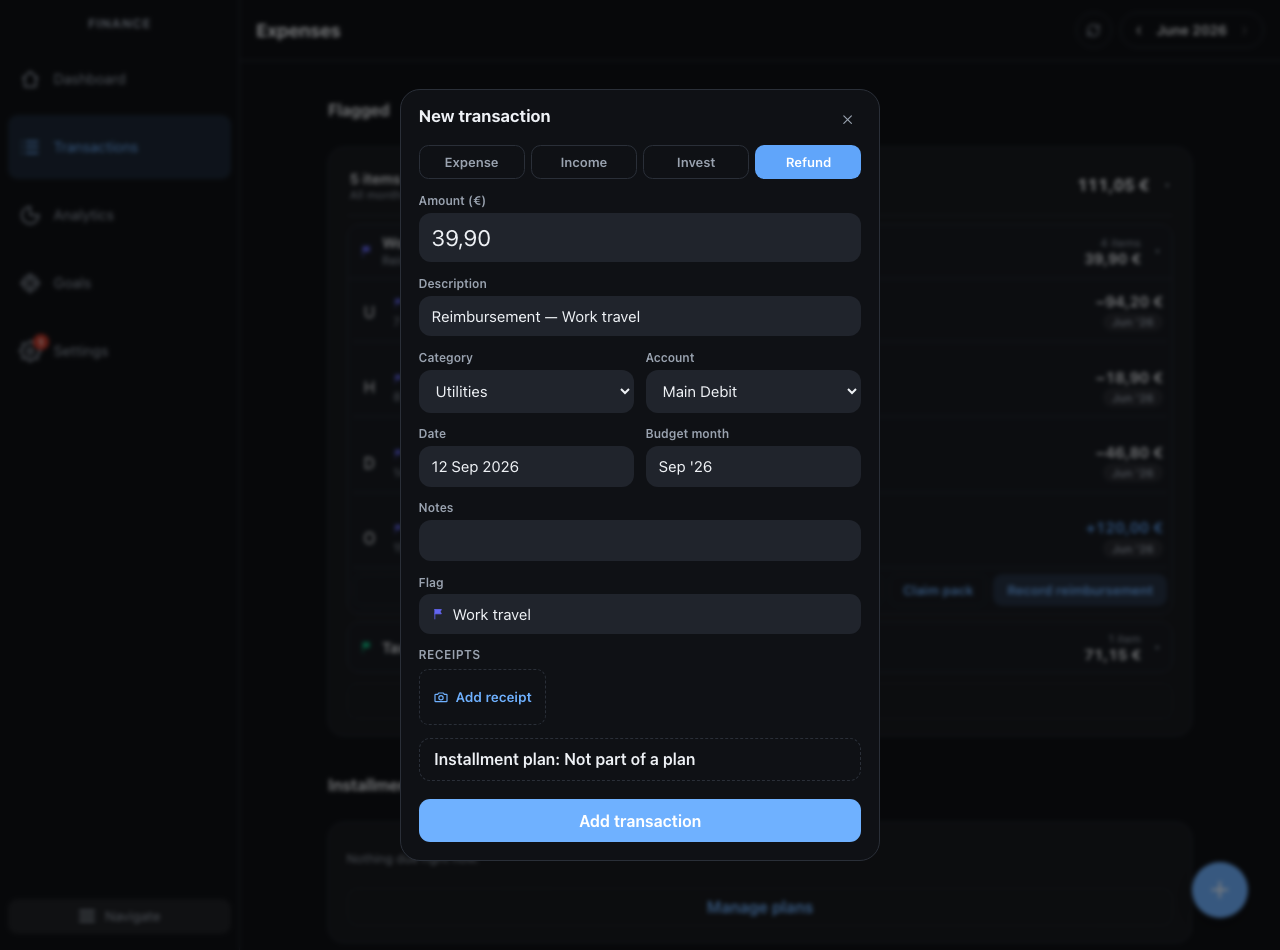
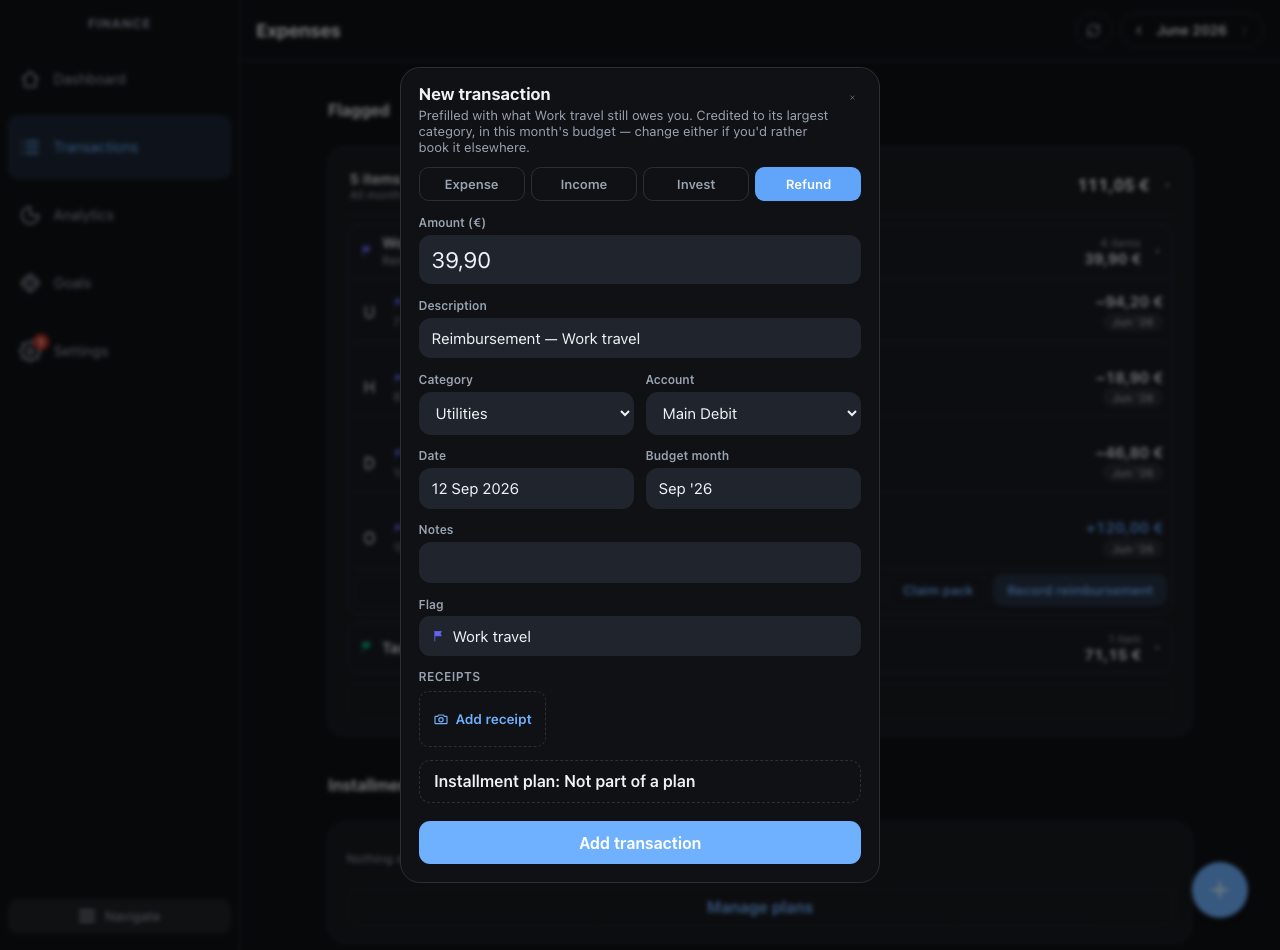
Say where the settlement prefill came from
Two of the prefilled choices are surprising without a word, and the review
flagged both: the credit is booked against the claim's largest category rather
than split across the categories it spans, and it falls in the budget month it
is paid rather than the month the spending happened. Opening the modal on a June
trip with Utilities and Sep '26 selected looks like a bug until you know why.

`onAdd` grows an optional `hint`, which the modal already renders as its
subtitle — the same channel Duplicate uses. Nothing else needed changing.

diff --git a/src/ui/tabs/settleClaim.test.ts b/src/ui/tabs/settleClaim.test.ts
@@ -64,6 +64,7 @@ describe('settleClaim', () => {
         amountCents: 10_000,
         description: 'Reimbursement — Work travel',
       }),
+      expect.any(String),
     )
   })
 
@@ -73,6 +74,19 @@ describe('settleClaim', () => {
     settleClaim(group([txn(1, { accountId: 2 })]), makeDataset({ accounts: [DEBIT, CARD] }), onAdd)
 
     expect(onAdd.mock.calls[0]![0]).toMatchObject({ accountId: 1 })
+  })
+
+  it('explains both surprising prefills in the modal subtitle', () => {
+    const onAdd = vi.fn()
+
+    settleClaim(group([txn(1)]), makeDataset({ accounts: [DEBIT, CARD] }), onAdd)
+
+    // The credit lands in one category rather than split across the claim's,
+    // and in the month it is paid rather than the month of the spending.
+    const hint = onAdd.mock.calls[0]![1] as string
+    expect(hint).toContain('Work travel')
+    expect(hint).toContain('largest category')
+    expect(hint).toContain("this month's budget")
   })
 
   it('does nothing when there is nothing left outstanding', () => {

diff --git a/src/ui/tabs/settleClaim.ts b/src/ui/tabs/settleClaim.ts
@@ -18,7 +18,7 @@ import type { TransactionSeed } from '../actions'
 export function settleClaim(
   group: FlagGroup,
   dataset: ExpenseDataset,
-  onAdd: (seed?: TransactionSeed) => void,
+  onAdd: (seed?: TransactionSeed, hint?: string) => void,
 ): void {
   const seed = buildSettlementSeed(
     group,
@@ -26,5 +26,9 @@ export function settleClaim(
     resolveDefaultAccountId(dataset.accounts, dataset.settings),
   )
   if (!seed) return
-  onAdd({ ...seed, type: 'refund', flagId: group.flag.id })
+  // Both prefilled choices are surprising without a word: the credit is booked
+  // against the claim's largest category rather than split across all of them,
+  // and it falls in the month it is paid, not the month the spending happened.
+  const hint = `Prefilled with what ${group.flag.name} still owes you. Credited to its largest category, in this month's budget — change either if you'd rather book it elsewhere.`
+  onAdd({ ...seed, type: 'refund', flagId: group.flag.id }, hint)
 }

diff --git a/src/ui/transactionSeed.ts b/src/ui/transactionSeed.ts
@@ -45,7 +45,11 @@ export function duplicateHint(txn: Transaction): string {
 export function openAddModal(
   openModal: (state: { mode: 'add'; seed?: TransactionSeed; hint?: string }) => void,
   maybeSeed?: unknown,
+  hint?: string,
 ): void {
-  if (isTransactionSeed(maybeSeed)) openModal({ mode: 'add', seed: maybeSeed })
-  else openModal({ mode: 'add' })
+  if (!isTransactionSeed(maybeSeed)) {
+    openModal({ mode: 'add' })
+    return
+  }
+  openModal({ mode: 'add', seed: maybeSeed, ...(hint ? { hint } : {}) })
 }

diff --git a/src/ui/actions.ts b/src/ui/actions.ts
@@ -52,7 +52,8 @@ export interface TransactionSeed {
  */
 export interface ExpenseActions {
   onEdit: (txn: Transaction) => void
-  onAdd: (seed?: TransactionSeed) => void
+  /** `hint` becomes the modal subtitle, explaining where a prefill came from. */
+  onAdd: (seed?: TransactionSeed, hint?: string) => void
   onDuplicate: (txn: Transaction) => void
   /** Resolves with the stored row, so a caller can attach receipts to its id. */
   createTransaction: (input: NewTransaction) => Promise<Transaction>

diff --git a/src/ui/useExpenseActions.ts b/src/ui/useExpenseActions.ts
@@ -49,7 +49,7 @@ export function useExpenseActions(
   return useMemo(() => {
     if (!source.canWrite || readOnly) return undefined
     return {
-      onAdd: (seed) => openAddModal(openModal, seed),
+      onAdd: (seed, hint) => openAddModal(openModal, seed, hint),
       onDuplicate: (txn) =>
         openModal({ mode: 'add', seed: transactionToSeed(txn), hint: duplicateHint(txn) }),
       onEdit: (txn) => openModal({ mode: 'edit', txn }),
